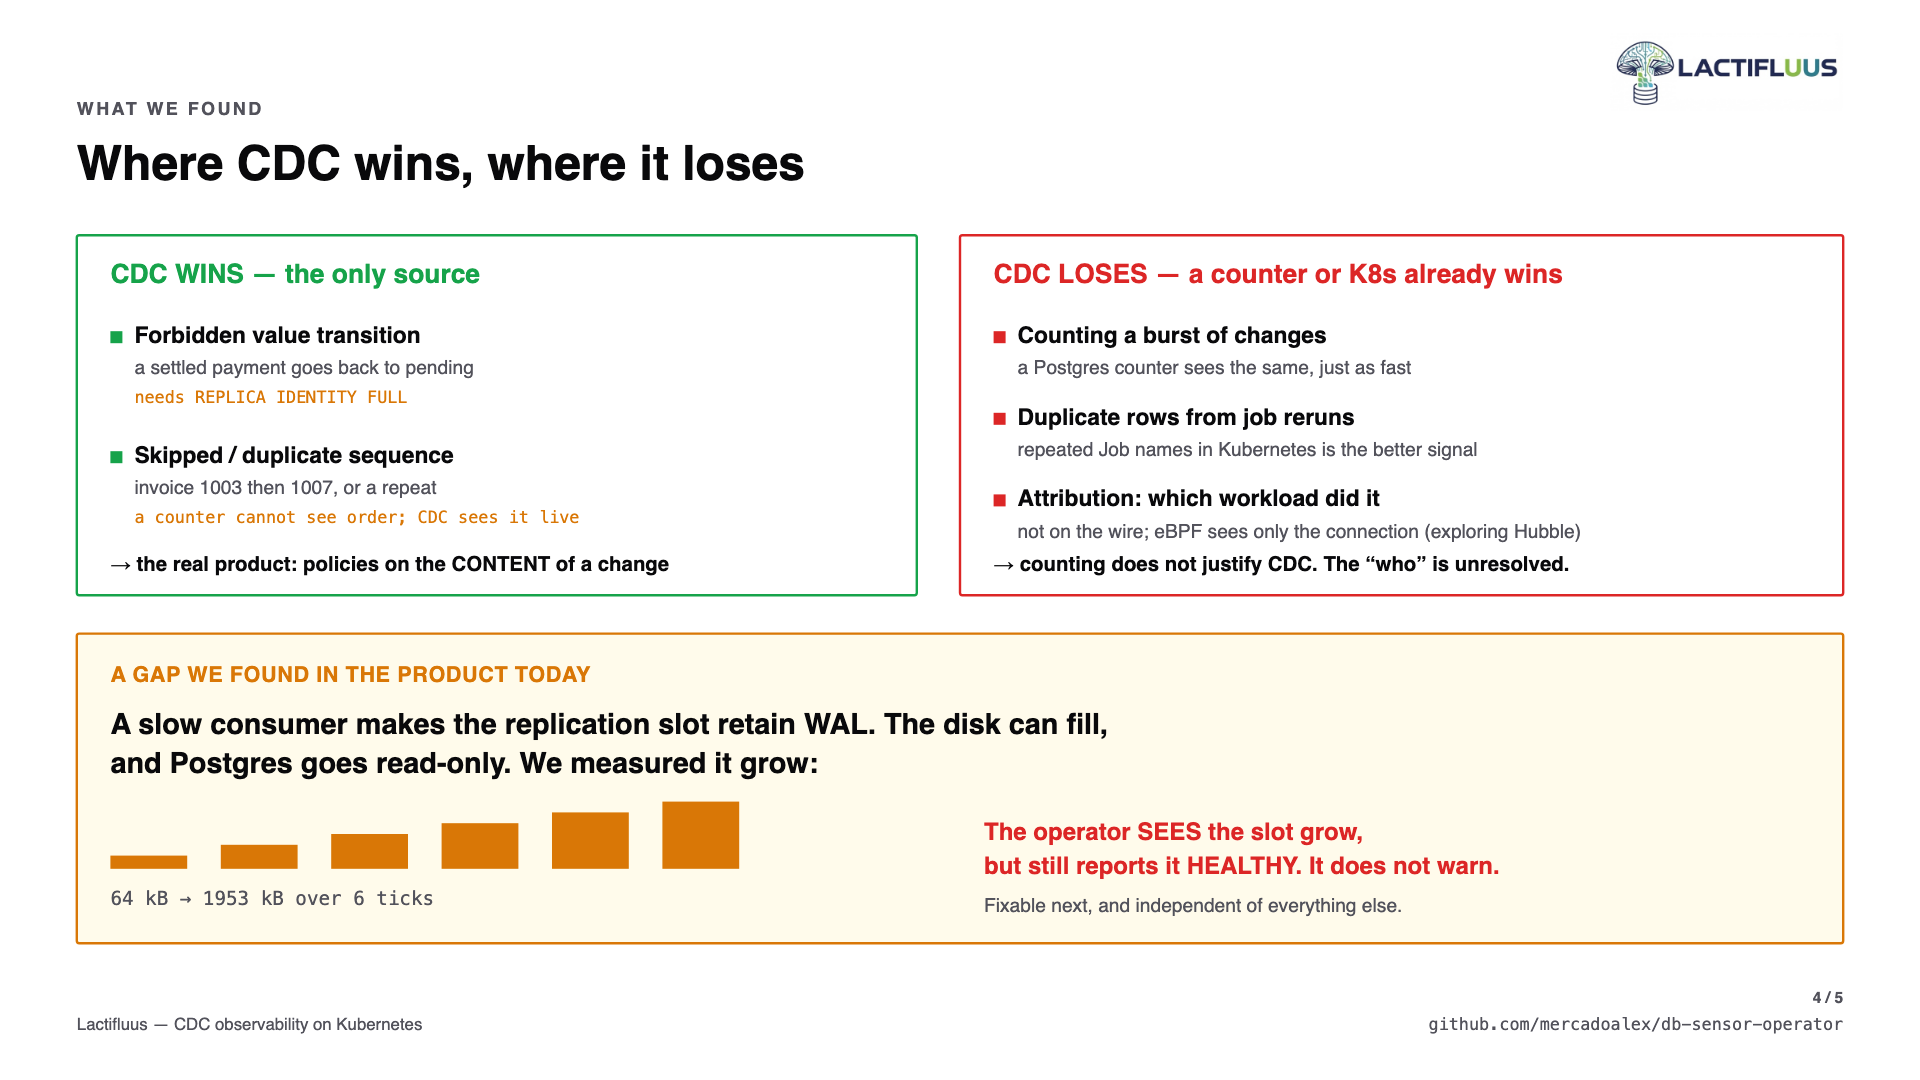
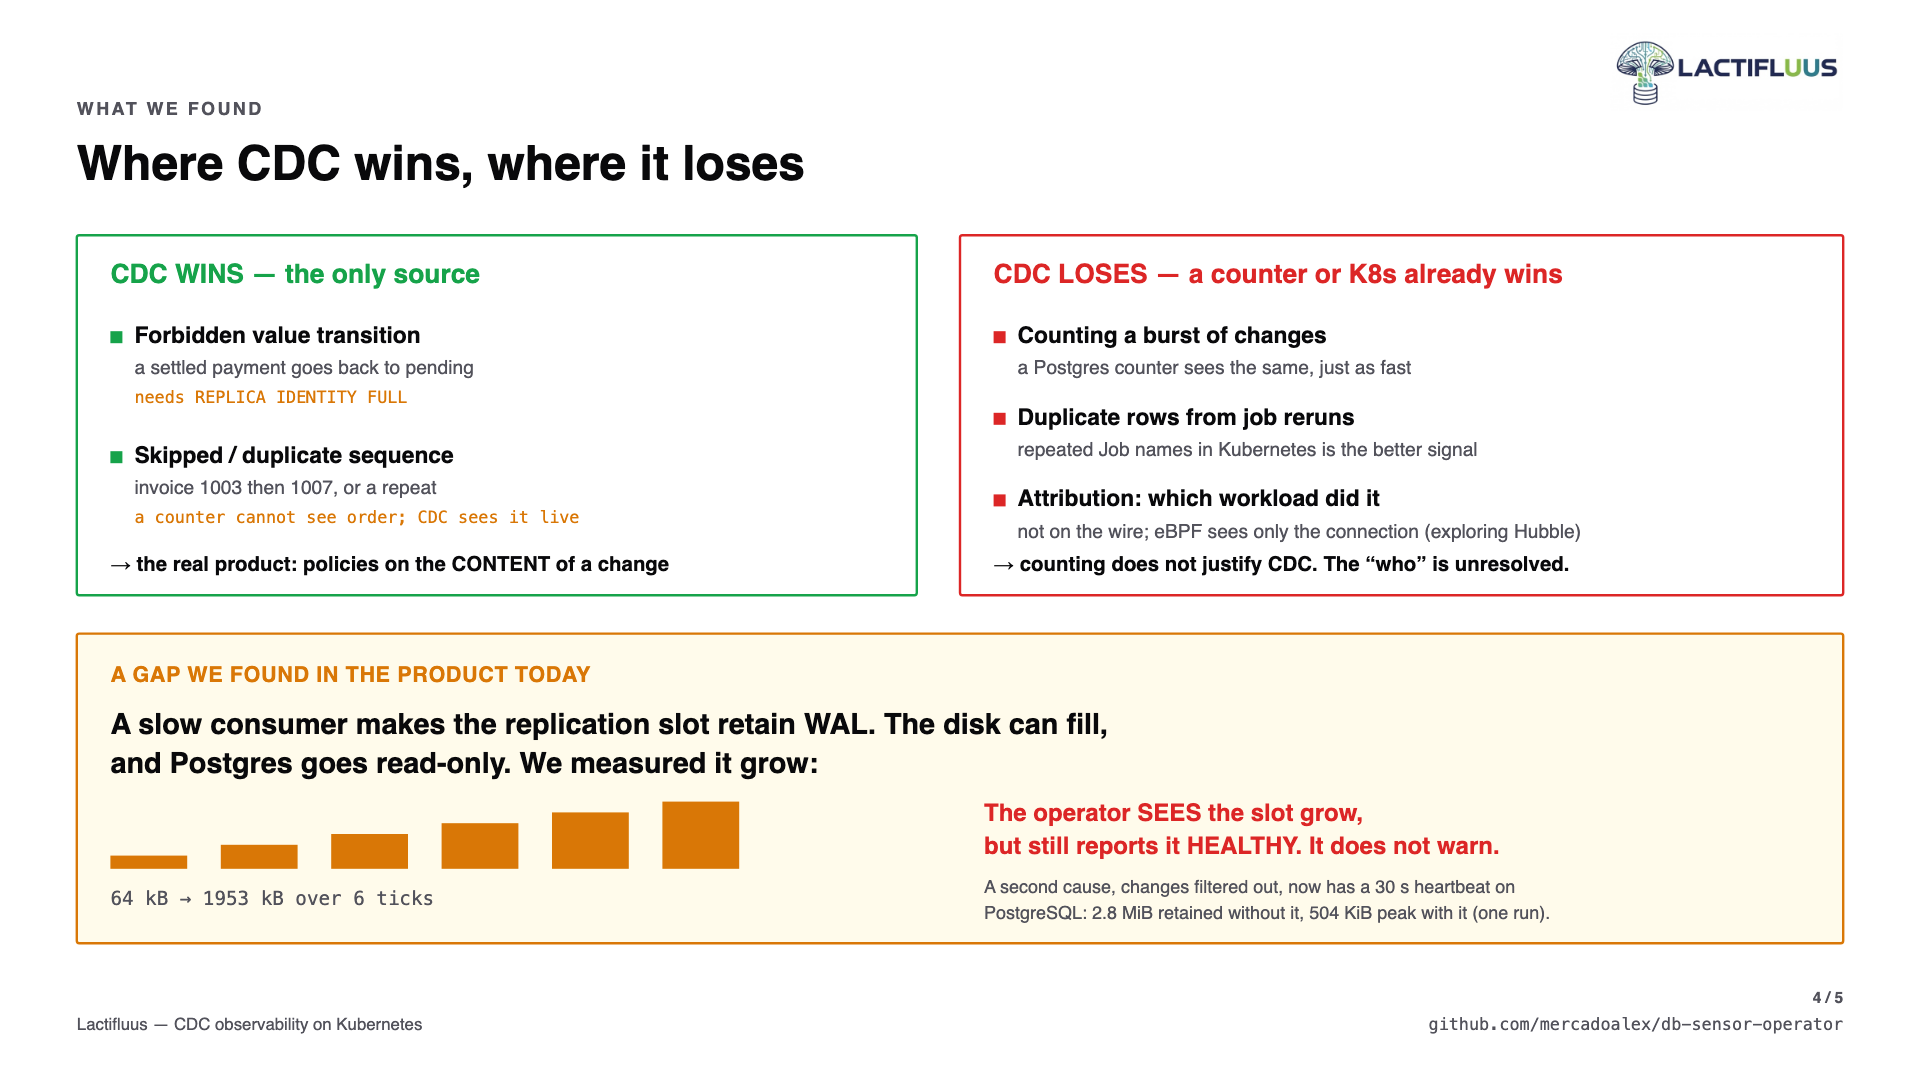
docs: update slides 03, 04, 05 and both READMEs for the heartbeat and the new docs
Slides: 03 shows the real GitHub numbers of the Debezium Operator (89 stars, 30 forks,
v3.7.1.Final, 2026-11-08) instead of the placeholder; 04 adds the second cause of a slot
piling up WAL and the heartbeat measurement (one run); 05 says the warning is about a slot
that stops advancing and that the heartbeat is built.

READMEs (English and Spanish, same structure): a heartbeat capability bullet, the
spec.heartbeat snippet, and links to ADR-016, 017 and 018, docs/guards, docs/research
and the deck on GitHub Pages.

Changed region(s): [[0.5, 0.7333, 0.8125, 0.8556]]

diff --git a/README.md b/README.md
@@ -55,6 +55,7 @@ The CDC-as-observability idea is not ours. The Debezium maintainers' blog post [
 - Fan out alerts to multiple backends: Prometheus, Datadog, Webhook/Slack.
 - Embedded dashboard with live charts.
 - Opt-in **database inspection**: a read-only Job checks `wal_level`, the tables and the replication slot, and reports the result in `status.snapshot`. It reports and recommends; it does not block. Verified in kind on PostgreSQL 16. See [Database inspection](#database-inspection).
+- **Heartbeat** on PostgreSQL: the operator sets a Debezium heartbeat (30 seconds by default) so the replication slot keeps moving when every change is filtered out. See [Start and restarts](#start-and-restarts).
 - Explicit, deterministic **policies** (start-up, per-table backfill plan, WAL retention). Each decision is written to `status` with its reason. They are rules, not machine learning. The backfill plan is computed but never applied.
 - Enriched status visible with `kubectl get`: `Phase`, `Lag`, `EventsPerMin`, `LastError`.
 - Databases: PostgreSQL (verified against a real cluster) and MySQL (connector mapped, not yet verified). See [Supported databases](#supported-databases).
@@ -196,6 +197,12 @@ Snapshot reads (`op=r`) are never counted: they report rows that already existed
 For PostgreSQL the operator starts Debezium with `snapshot.mode=no_data`: it does not read existing rows, so the sensor reports from the first live change instead of waiting for a snapshot. On a 100,000-row table the default `initial` snapshot kept a sensor blind for 57 s while `no_data` saw the first change in 6 s (Debezium 3.6.3, one run; see `bench/experiments/blind-window/RESULTS.md`). The cost is that existing rows are not delivered, which does not affect rates, lag or counts. Other engines keep Debezium's default until their non-blocking mode is verified.
 
 For PostgreSQL the operator also sets a Debezium heartbeat (`heartbeat.interval.ms`, 30 seconds by default; change or turn it off with `spec.heartbeat.intervalSeconds`, where `0` is off). When every change is filtered out, the connector has nothing to confirm and PostgreSQL keeps WAL without limit; in one run the slot retained all 2.8 MiB written in four minutes without a heartbeat and at most 504 KiB with one (Debezium Server 3.6.3, PostgreSQL 16; see `bench/experiments/heartbeat/RESULTS.md`, [ADR-018](docs/adr/ADR-018-heartbeat.md)). The heartbeat proves the connector is alive, not that every table is captured, and for now the sensor does not report it: heartbeat records are dropped before metrics and health.
+
+```yaml
+spec:
+  heartbeat:
+    intervalSeconds: 30   # PostgreSQL only; 0 turns it off; otherwise 5 to 3600
+```
 
 By default the Debezium Operator keeps its position in memory, so a restart of the Debezium pod can re-deliver recent events and inflate counts. `spec.snapshot.offsetStore: persistent` stores the offset on a PersistentVolumeClaim, and a graceful restart then resumed without re-delivery in testing. A hard kill can still replay up to one flush interval; that was not tested. `status.snapshot` shows the strategy, the offset store and a one-line reason. Design and evidence: [ADR-014](docs/adr/ADR-014-snapshot-policy-layer.md).
 
@@ -351,6 +358,12 @@ this repo does not run them.
 - [ADR-013](docs/adr/ADR-013-derived-event-counts-vs-native-jmx-metrics.md) — derive event counts from the stream vs. native JMX metrics.
 - [ADR-014](docs/adr/ADR-014-snapshot-policy-layer.md) — start the connector without a blocking snapshot, persist the offset, and inspect the database.
 - [ADR-015](docs/adr/ADR-015-gradual-adoption-ladder.md) — **draft idea**, not a decision: a ladder of adoption stages opened by policy. Nothing of it is built.
+- [ADR-016](docs/adr/ADR-016-stateful-stream-consumer-requirements.md) — **draft**: what a stateful consumer would need if content or sequence policies are ever built. Not a decision to build.
+- [ADR-017](docs/adr/ADR-017-attribution-by-composition.md) — **draft, an exploration**: attribution by composition, Hubble for the "who" and CDC for the "what". Nothing of it is built.
+- [ADR-018](docs/adr/ADR-018-heartbeat.md) — the Debezium heartbeat: keep the slot moving and tell a quiet table from a stalled connector. Phase 1 is built; the rest is not.
+- [docs/guards/](docs/guards/README.md) — a read-only SQL script that lists the triggers, constraints and replica identity a PostgreSQL database already has. **Not yet run against a database.**
+- [docs/research/](docs/research/competitive-landscape.md) — where Lactifluus sits among other tools, and the research notes behind the slides.
+- [Deck](https://mercadoalex.github.io/db-sensor-operator/) — the HTML slides of the findings (source: `docs/overview/deck.html`).
 - [docs/overview/stakeholder-brief.md](docs/overview/stakeholder-brief.md) — technical brief for stakeholders ([español](docs/overview/stakeholder-brief_spanish.md)).
 - [docs/HANDOFF.md](docs/HANDOFF.md) — current state and pending work.
 - [bench/](bench/README.md) — reproducible kind cluster, workload and experiments, with their `RESULTS.md`.
